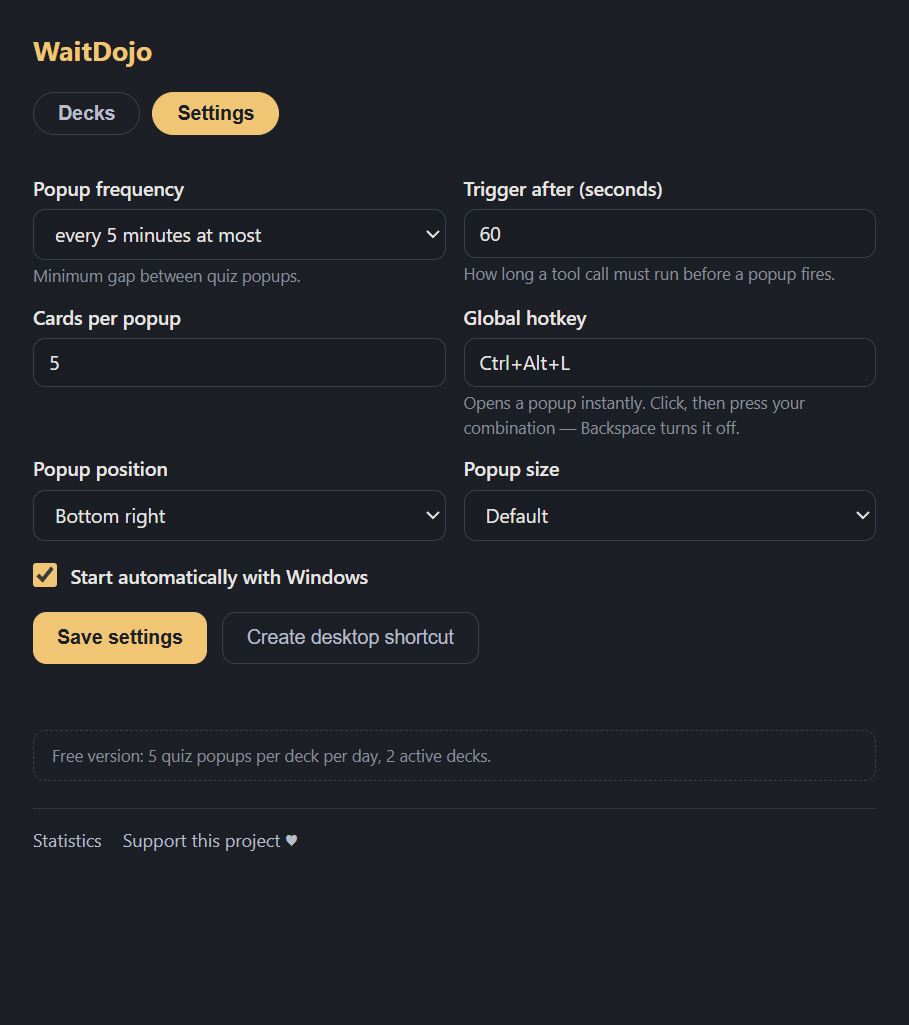
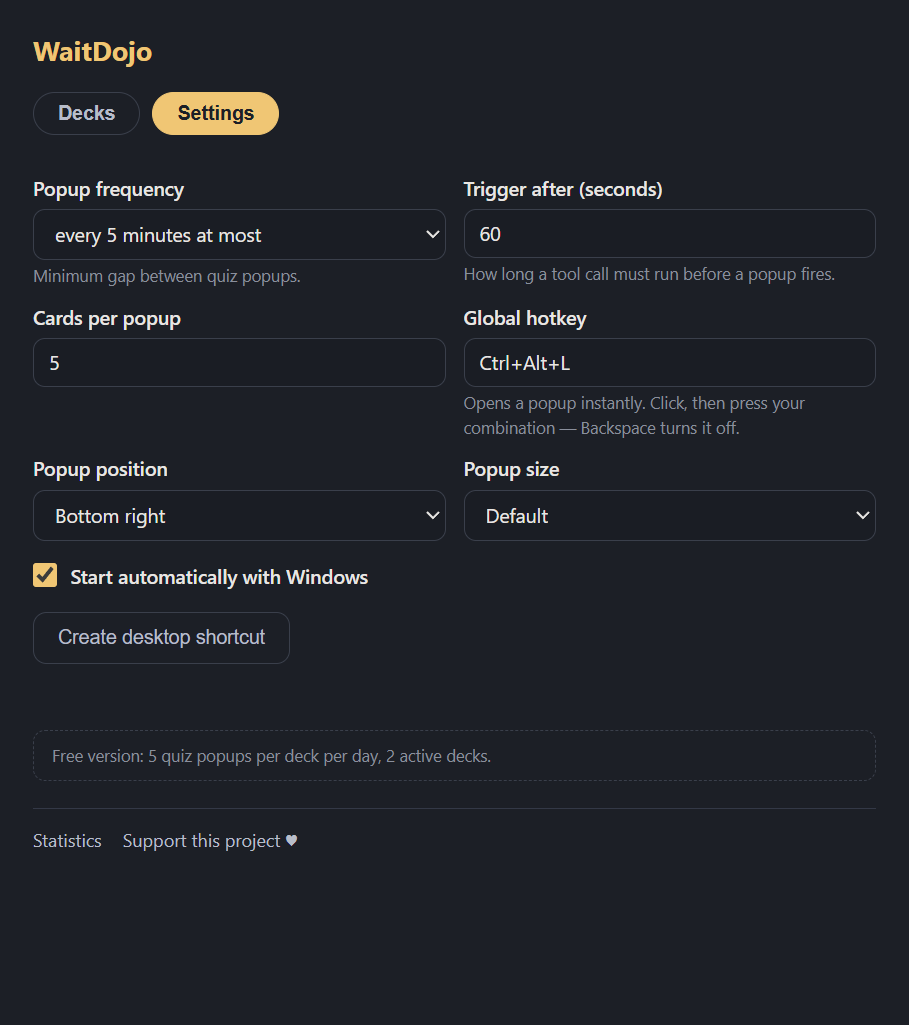
feat: card-style choice in the wizard (auto / quiz only / lessons)
Auto-detection picks the style from the topic, but it can't know intent:
an ML expert refreshing basics wants bare Q&A, a geography beginner may
want context with every capital. The describe step now has a Card style
dropdown — Auto (chatbot decides, default), Quiz only, or Lessons — and
buildPrompt swaps in the matching generation rule. Verified all three
variants produce the right rule text.

DECK_PROMPT.md notes that manual users can simply replace the style rule.

Screenshots refreshed: wizard-describe shows the new dropdown, and
menu-settings had still shown the "Save settings" button that auto-save
removed a commit ago.

Changed region(s): [[0.0308, 0.5932, 0.4928, 0.6556]]

diff --git a/onboarding.js b/onboarding.js
@@ -72,6 +72,14 @@ function buildPrompt() {
   const count = Math.max(5, Math.min(200, Number($('count').value) || 30));
   const title = $('title').value.trim() || `${topic} — quick break?`;
 
+  // Kartenstil: User entscheidet; „auto" überlässt es dem Chatbot (Thema-basiert)
+  const lessonCount = Math.max(5, Math.round(count / 2));
+  const styleRule = {
+    auto: `- Decide the deck style from the topic. Fact-style topics (capitals, vocabulary, dates, units): plain Q&A cards without "lesson", about ${count} cards. Concept-style topics (how something works, methods, study findings, learning a skill): lesson cards — each card carries a "lesson" of 2-4 sentences with ONE concrete example, and a "front" question that tests exactly that lesson; make about ${lessonCount} cards and set meta.wordsPerPopup to 3.`,
+    quiz: `- Make plain Q&A cards only: no "lesson" fields, omit meta.wordsPerPopup, about ${count} cards.`,
+    lessons: `- EVERY card carries a "lesson" of 2-4 sentences with ONE concrete example, and a "front" question that tests exactly that lesson. Make about ${lessonCount} cards and set meta.wordsPerPopup to 3.`,
+  }[$('cardstyle').value] || '';
+
   return `Create a quiz deck as a single JSON object for a flashcard app. Output ONLY the raw JSON, no markdown fences, no explanations.
 
 Topic: ${topic}
@@ -105,7 +113,7 @@ Rules:
 - "front" is what the user sees; "answers" lists every string that counts as correct (synonyms, abbreviations, spelling variants). Comparison is case-insensitive and ignores leading articles (der/die/das/ein/eine/the/a/an).
 - Answers must be 1–4 words, never full sentences.
 - Add "hint" only when the front alone is ambiguous.
-- Decide the deck style from the topic. Fact-style topics (capitals, vocabulary, dates, units): plain Q&A cards without "lesson", about ${count} cards. Concept-style topics (how something works, methods, study findings, learning a skill): lesson cards — each card carries a "lesson" of 2-4 sentences with ONE concrete example, and a "front" question that tests exactly that lesson; make about ${Math.max(5, Math.round(count / 2))} cards and set meta.wordsPerPopup to 3.
+${styleRule}
 - Mix "level" 1 (easier) and 2 (harder).
 - All ids must be unique.
 - Match the learner description for difficulty and scope. Write meta text, lessons and hints in ${lang}.

diff --git a/onboarding.html b/onboarding.html
@@ -87,6 +87,12 @@
         <input type="number" id="count" value="30" min="5" max="200">
       </div>
     </div>
+    <label for="cardstyle">Card style</label>
+    <select id="cardstyle">
+      <option value="auto">Auto — let the chatbot pick (recommended)</option>
+      <option value="quiz">Quiz only — short questions &amp; answers</option>
+      <option value="lessons">Lessons — short intro with example, then the question</option>
+    </select>
     <label for="title">Popup headline <span class="muted">(optional)</span></label>
     <input type="text" id="title" spellcheck="false" autocomplete="off" placeholder="defaults to your topic">
     <div class="rowflex">

diff --git a/DECK_PROMPT.md b/DECK_PROMPT.md
@@ -50,6 +50,8 @@ Rules:
 - Add "hint" only when the front alone is ambiguous.
 - Add "extra" only when there is a natural bonus to reveal with the solution (the Chinese character for a Pinyin card, the formula behind a physics answer). It is shown after checking, never before.
 - Decide the deck style from the topic. Fact-style topics (capitals, vocabulary, dates, units): plain Q&A cards without "lesson", about {NUMBER} cards. Concept-style topics (how something works, methods, study findings, learning a skill): lesson cards — each card carries a "lesson" of 2–4 sentences with ONE concrete example, and a "front" question that tests exactly that lesson; make about half of {NUMBER} cards and set meta.wordsPerPopup to 3.
+
+Want a specific style instead of letting the chatbot decide? Replace that rule with either "Make plain Q&A cards only, no lesson fields" or "Every card carries a lesson" — the in-app wizard offers the same choice as a dropdown.
 - "level": 1 for easier cards, 2 for harder ones. Mix both.
 - All ids must be unique.
 - Write meta.title, meta.instruction and meta.placeholder in {ANSWER LANGUAGE}.
